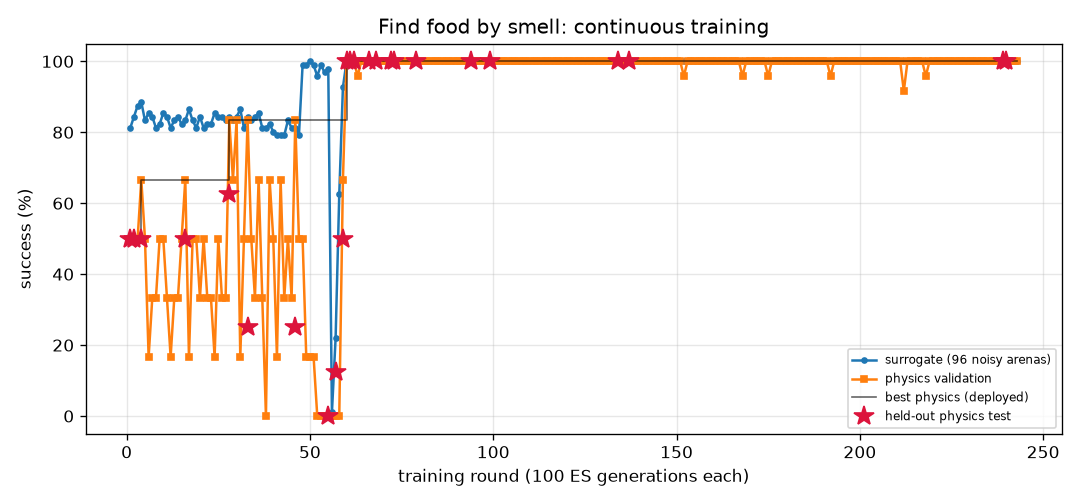
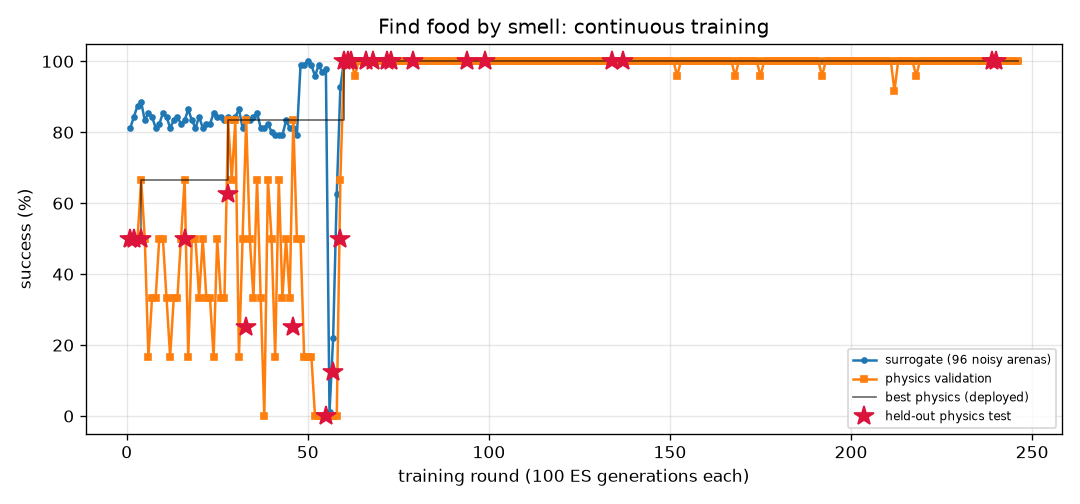
FlyLab: continuous training progress
- walk_forward: optimal, physics val 100% of 24, round 393
- turn: optimal, physics val 100% of 24, round 1067
- goto: optimal, physics val 100% of 24, round 304
- odor_seek: optimal, physics val 100% of 24, round 246
- odor_avoid: optimal, physics val 100% of 24, round 933
- light_seek: optimal, physics val 100% of 24, round 505
- light_avoid: optimal, physics val 100% of 24, round 658

diff --git a/projects/09_flylab/training/turn/REPORT.md b/projects/09_flylab/training/turn/REPORT.md
@@ -1,14 +1,14 @@
 # Turn in place (`turn`) — training report
 
-*Auto-generated by `train_brains.py`, last updated 2026-11-15T16:48:25.*
+*Auto-generated by `train_brains.py`, last updated 2026-11-15T19:52:14.*
 
 ![curve](curve.png)
 
 | | |
 |---|---|
-| rounds | 1062 |
-| ES generations | 106200 |
-| physics runs | 25734 |
+| rounds | 1067 |
+| ES generations | 106700 |
+| physics runs | 25854 |
 | status | **optimal** |
 | best brain | round 80: physics validation **100%** on 24 arenas, surrogate 100% |
 | held-out physics test | **97%** on 32 unseen arenas (95% CI 84%-99%) (errors: [1.6, 3.3, 6.3, 3.7, 1.1, 0.4, 2.4, 2.9, 0.1, 2.6, 0.5, 2.7, 1.5, 3.1, 4.5, 0.2, 0.5, 1.1, 2.0, 4.4, 2.8, 3.2, 0.3, 2.2, 0.5, 3.0, 0.3, 5.4, 0.4, 1.0, 4.7, 10.7]) |
@@ -17,11 +17,6 @@ Physics error per arena: deg from target heading (< 20 = success).
 
 | round | level | gens | sigma | surrogate | physics val | val errors | test | note |
 |---:|---:|---:|---:|---:|---:|---|---:|---|
-| 1023 | 3 | 102300 | 0.025 | 98% | 79% | [4.8, 4.3, 4.7, 0.0, 3.2, 4.2, 7.7, 4.1, 6.4, 0.7, 5.5, 1.5, 0.1, 1.6, 5.7, 1.1, 1.5, 14.7, 4.2, 2.9, 4.4, 1.4, 7.3, 9.5] |  |  |
-| 1024 | 3 | 102400 | 0.025 | 99% | 79% | [5.9, 4.9, 0.8, 1.5, 5.4, 3.1, 4.5, 4.0, 6.1, 1.3, 4.9, 0.6, 0.5, 1.6, 4.3, 0.1, 1.1, 1.2, 0.3, 0.3, 4.8, 3.8, 5.7, 3.6] |  | restart from best |
-| 1025 | 3 | 102500 | 0.024 | 100% | 96% | [9.3, 10.1, 3.2, 4.4, 1.9, 3.5, 2.3, 4.6, 2.3, 2.0, 2.5, 4.2, 1.5, 6.6, 1.8, 3.5, 4.0, 1.1, 2.9, 1.2, 8.3, 2.4, 1.5, 0.9] |  |  |
-| 1026 | 3 | 102600 | 0.024 | 99% | 96% | [7.7, 7.2, 3.1, 2.2, 1.7, 0.7, 3.8, 6.3, 4.9, 0.9, 3.5, 2.1, 3.3, 4.9, 2.9, 0.3, 2.0, 0.3, 1.8, 1.5, 4.5, 0.3, 3.3, 1.2] |  |  |
-| 1027 | 3 | 102700 | 0.025 | 99% | 83% | [4.1, 0.6, 3.4, 2.6, 5.9, 4.9, 6.3, 9.0, 6.3, 2.2, 4.5, 2.1, 1.8, 0.3, 4.2, 1.2, 1.6, 4.3, 6.8, 2.1, 1.3, 1.8, 7.0, 7.4] |  |  |
 | 1028 | 3 | 102800 | 0.025 | 99% | 79% | [8.7, 8.2, 8.7, 4.2, 11.0, 2.1, 3.6, 0.6, 4.8, 2.5, 3.0, 1.8, 2.8, 3.2, 3.9, 0.3, 1.8, 1.0, 0.8, 2.3, 6.8, 2.6, 2.5, 2.8] |  | restart from best |
 | 1029 | 3 | 102900 | 0.024 | 100% | 79% | [6.8, 7.1, 1.8, 1.3, 2.9, 120.4, 4.1, 0.3, 1.8, 0.9, 4.2, 2.7, 2.2, 0.2, 2.9, 0.2, 2.5, 1.2, 1.3, 1.5, 5.5, 1.0, 3.9, 5.1] |  |  |
 | 1030 | 3 | 103000 | 0.024 | 99% | 83% | [8.1, 12.2, 7.2, 3.5, 4.1, 1.4, 1.1, 1.2, 1.0, 2.4, 1.1, 4.2, 3.6, 6.2, 0.8, 4.0, 4.1, 3.2, 4.2, 3.8, 5.2, 2.5, 0.8, 4.9] |  |  |
@@ -57,3 +52,8 @@ Physics error per arena: deg from target heading (< 20 = success).
 | 1060 | 3 | 106000 | 0.024 | 99% | 75% | [5.0, 0.2, 6.9, 0.2, 1.7, 3.7, 6.4, 1.9, 5.7, 0.1, 5.4, 0.4, 1.4, 0.9, 4.5, 1.8, 0.3, 3.4, 1.7, 0.1, 2.8, 0.0, 5.5, 7.3] |  | restart from best |
 | 1061 | 3 | 106100 | 0.024 | 100% | 83% | [1.1, 5.4, 0.8, 3.4, 1.7, 1.2, 4.5, 5.3, 6.6, 0.4, 4.1, 1.3, 2.2, 2.3, 3.4, 1.4, 0.9, 0.3, 2.8, 0.8, 2.0, 1.9, 5.5, 5.8] |  |  |
 | 1062 | 3 | 106200 | 0.024 | 99% | 92% | [5.7, 7.3, 0.4, 2.0, 12.2, 1.8, 3.6, 3.0, 3.5, 1.6, 2.4, 0.5, 3.7, 4.1, 1.9, 0.5, 0.3, 0.2, 0.9, 1.1, 2.4, 0.2, 4.6, 0.9] |  |  |
+| 1063 | 3 | 106300 | 0.025 | 98% | 83% | [5.4, 6.9, 0.5, 3.2, 1.9, 1.4, 5.3, 7.1, 3.7, 0.7, 4.3, 1.0, 1.6, 3.2, 4.1, 0.9, 0.6, 0.8, 1.0, 1.4, 4.2, 1.1, 5.2, 4.6] |  |  |
+| 1064 | 3 | 106400 | 0.025 | 99% | 71% | [7.9, 5.1, 4.8, 1.0, 0.5, 1.7, 4.9, 0.7, 4.6, 1.2, 4.4, 1.5, 1.4, 0.6, 5.1, 0.7, 0.3, 1.8, 1.1, 2.1, 8.0, 0.7, 3.4, 2.0] |  | restart from best |
+| 1065 | 3 | 106500 | 0.024 | 99% | 83% | [1.0, 5.1, 0.8, 2.2, 0.3, 1.3, 4.6, 5.7, 6.0, 0.2, 3.8, 0.5, 1.7, 2.8, 3.6, 2.4, 0.4, 1.9, 2.6, 1.8, 3.3, 0.7, 5.7, 5.1] |  |  |
+| 1066 | 3 | 106600 | 0.025 | 98% | 92% | [2.3, 4.7, 1.5, 2.7, 0.9, 0.6, 6.2, 5.2, 5.4, 0.8, 3.0, 0.1, 0.5, 2.7, 4.2, 3.1, 0.0, 2.1, 2.9, 1.0, 3.0, 15.0, 4.9, 4.5] |  |  |
+| 1067 | 3 | 106700 | 0.025 | 99% | 83% | [9.6, 10.8, 3.7, 1.9, 6.7, 7.1, 3.7, 8.0, 1.1, 0.2, 2.8, 4.4, 2.1, 4.8, 2.2, 2.5, 4.4, 0.4, 0.9, 2.1, 8.3, 0.5, 2.0, 0.6] |  |  |

diff --git a/projects/09_flylab/training/odor_seek/REPORT.md b/projects/09_flylab/training/odor_seek/REPORT.md
@@ -1,14 +1,14 @@
 # Find food by smell (`odor_seek`) — training report
 
-*Auto-generated by `train_brains.py`, last updated 2026-11-15T15:45:14.*
+*Auto-generated by `train_brains.py`, last updated 2026-11-15T19:57:08.*
 
 ![curve](curve.png)
 
 | | |
 |---|---|
-| rounds | 243 |
-| ES generations | 24300 |
-| physics runs | 5326 |
+| rounds | 246 |
+| ES generations | 24600 |
+| physics runs | 5398 |
 | status | **optimal** |
 | best brain | round 240: physics validation **100%** on 24 arenas, surrogate 100% |
 | held-out physics test | **100%** on 32 unseen arenas (95% CI 89%-100%) (errors: [0.02, 0.03, 0.03, 0.05, 0.04, 0.05, 0.06, 0.07, 0.09, 0.05, 0.05, 0.01, 0.12, 0.03, 0.07, 0.08, 0.02, 0.06, 0.03, 0.04, 0.0, 0.01, 0.09, 0.05, 0.04, 0.01, 0.07, 0.05, 0.08, 0.05, 0.05, 0.02]) |
@@ -17,9 +17,6 @@ Physics error per arena: mm from target at the end (< 1.5 and standing still = s
 
 | round | level | gens | sigma | surrogate | physics val | val errors | test | note |
 |---:|---:|---:|---:|---:|---:|---|---:|---|
-| 204 | 3 | 20400 | 0.024 | 100% | 100% | [0.09, 0.14, 0.09, 0.09, 0.09, 0.06, 0.05, 0.12, 0.08, 0.18, 0.14, 0.05, 0.07, 0.09, 0.08, 0.07, 0.11, 0.12, 0.12, 0.2, 0.05, 0.1, 0.09, 0.07] |  |  |
-| 205 | 3 | 20500 | 0.024 | 100% | 100% | [0.05, 0.16, 0.09, 0.08, 0.14, 0.04, 0.12, 0.11, 0.14, 0.08, 0.13, 0.16, 0.07, 0.09, 0.06, 0.09, 0.18, 0.13, 0.05, 0.07, 0.16, 0.14, 0.08, 0.16] |  | restart from best |
-| 206 | 3 | 20600 | 0.024 | 100% | 100% | [0.13, 0.11, 0.14, 0.14, 0.17, 0.09, 0.13, 0.09, 0.14, 0.09, 0.17, 0.12, 0.1, 0.06, 0.14, 0.14, 0.05, 0.14, 0.12, 0.14, 0.1, 0.17, 0.09, 0.16] |  |  |
 | 207 | 3 | 20700 | 0.024 | 100% | 100% | [0.11, 0.19, 0.14, 0.17, 0.11, 0.15, 0.21, 0.13, 0.2, 0.16, 0.13, 0.2, 0.14, 0.22, 0.1, 0.2, 0.18, 0.15, 0.15, 0.12, 0.16, 0.13, 0.13, 0.12] |  |  |
 | 208 | 3 | 20800 | 0.024 | 100% | 100% | [0.16, 0.17, 0.16, 0.14, 0.16, 0.16, 0.12, 0.21, 0.17, 0.16, 0.16, 0.13, 0.13, 0.18, 0.14, 0.19, 0.14, 0.16, 0.19, 0.12, 0.17, 0.17, 0.15, 0.13] |  |  |
 | 209 | 3 | 20900 | 0.024 | 100% | 100% | [0.21, 0.19, 0.2, 0.22, 0.27, 0.21, 0.21, 0.24, 0.26, 0.19, 0.21, 0.24, 0.23, 0.19, 0.19, 0.24, 0.2, 0.26, 0.22, 0.25, 0.23, 0.18, 0.24, 0.22] |  | restart from best |
@@ -57,3 +54,6 @@ Physics error per arena: mm from target at the end (< 1.5 and standing still = s
 | 241 | 3 | 24100 | 0.024 | 100% | 100% | [0.14, 0.12, 0.25, 0.13, 0.11, 0.14, 0.16, 0.14, 0.1, 0.15, 0.1, 0.15, 0.17, 0.11, 0.14, 0.15, 0.14, 0.16, 0.2, 0.13, 0.23, 0.12, 0.26, 0.19] |  |  |
 | 242 | 3 | 24200 | 0.024 | 100% | 100% | [0.16, 0.11, 0.19, 0.12, 0.1, 0.15, 0.18, 0.18, 0.14, 0.11, 0.15, 0.14, 0.22, 0.09, 0.11, 0.14, 0.16, 0.1, 0.04, 0.13, 0.13, 0.12, 0.09, 0.11] |  |  |
 | 243 | 3 | 24300 | 0.024 | 100% | 100% | [0.19, 0.16, 0.16, 0.19, 0.12, 0.16, 0.23, 0.2, 0.18, 0.24, 0.19, 0.15, 0.2, 0.16, 0.11, 0.15, 0.15, 0.16, 0.17, 0.16, 0.18, 0.25, 0.19, 0.16] |  |  |
+| 244 | 3 | 24400 | 0.024 | 100% | 100% | [0.09, 0.11, 0.18, 0.13, 0.1, 0.14, 0.11, 0.12, 0.13, 0.09, 0.11, 0.12, 0.07, 0.15, 0.11, 0.17, 0.13, 0.2, 0.16, 0.11, 0.12, 0.24, 0.22, 0.09] |  | restart from best |
+| 245 | 3 | 24500 | 0.024 | 100% | 100% | [0.14, 0.13, 0.12, 0.14, 0.04, 0.14, 0.1, 0.08, 0.06, 0.12, 0.08, 0.04, 0.04, 0.04, 0.05, 0.12, 0.1, 0.06, 0.06, 0.04, 0.04, 0.08, 0.13, 0.08] |  |  |
+| 246 | 3 | 24600 | 0.024 | 100% | 100% | [0.14, 0.06, 0.22, 0.17, 0.1, 0.2, 0.22, 0.1, 0.14, 0.19, 0.1, 0.11, 0.14, 0.15, 0.13, 0.09, 0.15, 0.23, 0.18, 0.22, 0.22, 0.13, 0.08, 0.13] |  |  |

diff --git a/projects/09_flylab/training/goto/REPORT.md b/projects/09_flylab/training/goto/REPORT.md
@@ -1,14 +1,14 @@
 # Go to a location (`goto`) — training report
 
-*Auto-generated by `train_brains.py`, last updated 2026-11-15T18:53:58.*
+*Auto-generated by `train_brains.py`, last updated 2026-11-15T19:11:52.*
 
 ![curve](curve.png)
 
 | | |
 |---|---|
-| rounds | 303 |
-| ES generations | 30300 |
-| physics runs | 7222 |
+| rounds | 304 |
+| ES generations | 30400 |
+| physics runs | 7246 |
 | status | **optimal** |
 | best brain | round 176: physics validation **100%** on 24 arenas, surrogate 100% |
 | held-out physics test | **100%** on 32 unseen arenas (95% CI 89%-100%) (errors: [0.2, 0.32, 0.19, 0.24, 0.18, 0.2, 0.19, 0.17, 0.22, 0.23, 0.23, 0.26, 0.2, 0.19, 0.24, 0.23, 0.22, 0.24, 0.2, 0.22, 0.2, 0.2, 0.26, 0.19, 0.22, 0.18, 0.26, 0.22, 0.2, 0.26, 0.23, 0.23]) |
@@ -17,7 +17,6 @@ Physics error per arena: mm from target at the end (< 1.5 and standing still = s
 
 | round | level | gens | sigma | surrogate | physics val | val errors | test | note |
 |---:|---:|---:|---:|---:|---:|---|---:|---|
-| 264 | 3 | 26400 | 0.024 | 100% | 100% | [0.56, 0.49, 0.49, 0.38, 0.37, 0.36, 0.52, 0.37, 0.42, 0.36, 0.33, 0.37, 0.47, 0.34, 0.43, 0.4, 0.49, 0.41, 0.36, 0.42, 0.38, 0.36, 0.45, 0.38] |  | restart from best |
 | 265 | 3 | 26500 | 0.024 | 99% | 100% | [0.27, 0.3, 0.21, 0.25, 0.27, 0.25, 0.29, 0.3, 0.31, 0.22, 0.21, 0.23, 0.31, 0.25, 0.24, 0.31, 0.28, 0.27, 0.22, 0.3, 0.31, 0.21, 0.28, 0.26] |  |  |
 | 266 | 3 | 26600 | 0.025 | 100% | 100% | [0.45, 0.41, 0.4, 0.34, 0.3, 0.33, 0.46, 0.32, 0.35, 0.32, 0.29, 0.32, 0.44, 0.3, 0.39, 0.36, 0.46, 0.33, 0.32, 0.4, 0.34, 0.33, 0.41, 0.36] |  |  |
 | 267 | 3 | 26700 | 0.024 | 100% | 100% | [0.73, 0.71, 0.73, 0.63, 0.57, 0.63, 0.75, 0.64, 0.58, 0.59, 0.54, 0.59, 0.71, 0.55, 0.61, 0.63, 0.67, 0.65, 0.6, 0.66, 0.63, 0.58, 0.7, 0.63] |  |  |
@@ -57,3 +56,4 @@ Physics error per arena: mm from target at the end (< 1.5 and standing still = s
 | 301 | 3 | 30100 | 0.024 | 100% | 100% | [0.45, 0.47, 0.42, 0.47, 0.38, 0.44, 0.49, 0.46, 0.45, 0.41, 0.39, 0.46, 0.46, 0.41, 0.47, 0.45, 0.51, 0.42, 0.39, 0.47, 0.42, 0.47, 0.47, 0.47] |  |  |
 | 302 | 3 | 30200 | 0.024 | 100% | 100% | [0.53, 0.46, 0.4, 0.42, 0.38, 0.37, 0.54, 0.42, 0.45, 0.4, 0.37, 0.43, 0.49, 0.35, 0.47, 0.44, 0.55, 0.43, 0.38, 0.49, 0.42, 0.4, 0.51, 0.41] |  |  |
 | 303 | 3 | 30300 | 0.024 | 100% | 100% | [0.44, 0.44, 0.27, 0.32, 0.28, 0.29, 0.41, 0.35, 0.34, 0.3, 0.27, 0.33, 0.36, 0.3, 0.4, 0.38, 0.46, 0.32, 0.27, 0.36, 0.35, 0.32, 0.4, 0.3] |  |  |
+| 304 | 3 | 30400 | 0.024 | 100% | 100% | [0.42, 0.45, 0.46, 0.35, 0.32, 0.36, 0.36, 0.42, 0.4, 0.29, 0.3, 0.33, 0.41, 0.33, 0.37, 0.35, 0.43, 0.34, 0.3, 0.39, 0.36, 0.3, 0.41, 0.34] |  | restart from best |

diff --git a/projects/09_flylab/training/TRAINING.md b/projects/09_flylab/training/TRAINING.md
@@ -1,15 +1,15 @@
 # FlyLab brains — continuous training log
 
-*Auto-generated by `train_brains.py`, last updated 2026-11-15T18:53:58.*
+*Auto-generated by `train_brains.py`, last updated 2026-11-15T19:57:08.*
 
 Every skill has its own brain and its own training process: surrogate ES rounds, physics validation in MuJoCo, keep-the-best selection, and a held-out physics test that is never used for selection. See each skill's report for its full round-by-round history. Mastery is progressive: passing a level (100% physics validation, >=95% surrogate) doubles the validation and test arena sets; a brain is **optimal** once it holds up at level 3 (>=95% of 24 validation arenas) AND scores >=90% on the 32 held-out test arenas. Test columns show 95% Wilson confidence intervals.
 
 | skill | rounds | ES generations | physics runs | surrogate | physics val | **physics test** | status |
 |---|---:|---:|---:|---:|---:|---:|---|
 | [Walk forward](walk_forward/REPORT.md) | 393 | 39300 | 9446 | 100% | 100% of 24 | 100% of 32 (CI 89-100%) | **optimal** |
-| [Turn in place](turn/REPORT.md) | 1062 | 106200 | 25734 | 100% | 100% of 24 | 97% of 32 (CI 84-99%) | **optimal** |
-| [Go to a location](goto/REPORT.md) | 303 | 30300 | 7222 | 100% | 100% of 24 | 100% of 32 (CI 89-100%) | **optimal** |
-| [Find food by smell](odor_seek/REPORT.md) | 243 | 24300 | 5326 | 100% | 100% of 24 | 100% of 32 (CI 89-100%) | **optimal** |
+| [Turn in place](turn/REPORT.md) | 1067 | 106700 | 25854 | 100% | 100% of 24 | 97% of 32 (CI 84-99%) | **optimal** |
+| [Go to a location](goto/REPORT.md) | 304 | 30400 | 7246 | 100% | 100% of 24 | 100% of 32 (CI 89-100%) | **optimal** |
+| [Find food by smell](odor_seek/REPORT.md) | 246 | 24600 | 5398 | 100% | 100% of 24 | 100% of 32 (CI 89-100%) | **optimal** |
 | [Escape a bad smell](odor_avoid/REPORT.md) | 933 | 93300 | 19698 | 97% | 100% of 24 | 97% of 32 (CI 84-99%) | **optimal** |
 | [Walk toward light](light_seek/REPORT.md) | 505 | 50500 | 9000 | 100% | 100% of 24 | 100% of 32 (CI 89-100%) | **optimal** |
 | [Hide from light](light_avoid/REPORT.md) | 658 | 65800 | 16064 | 100% | 100% of 24 | 100% of 32 (CI 89-100%) | **optimal** |
